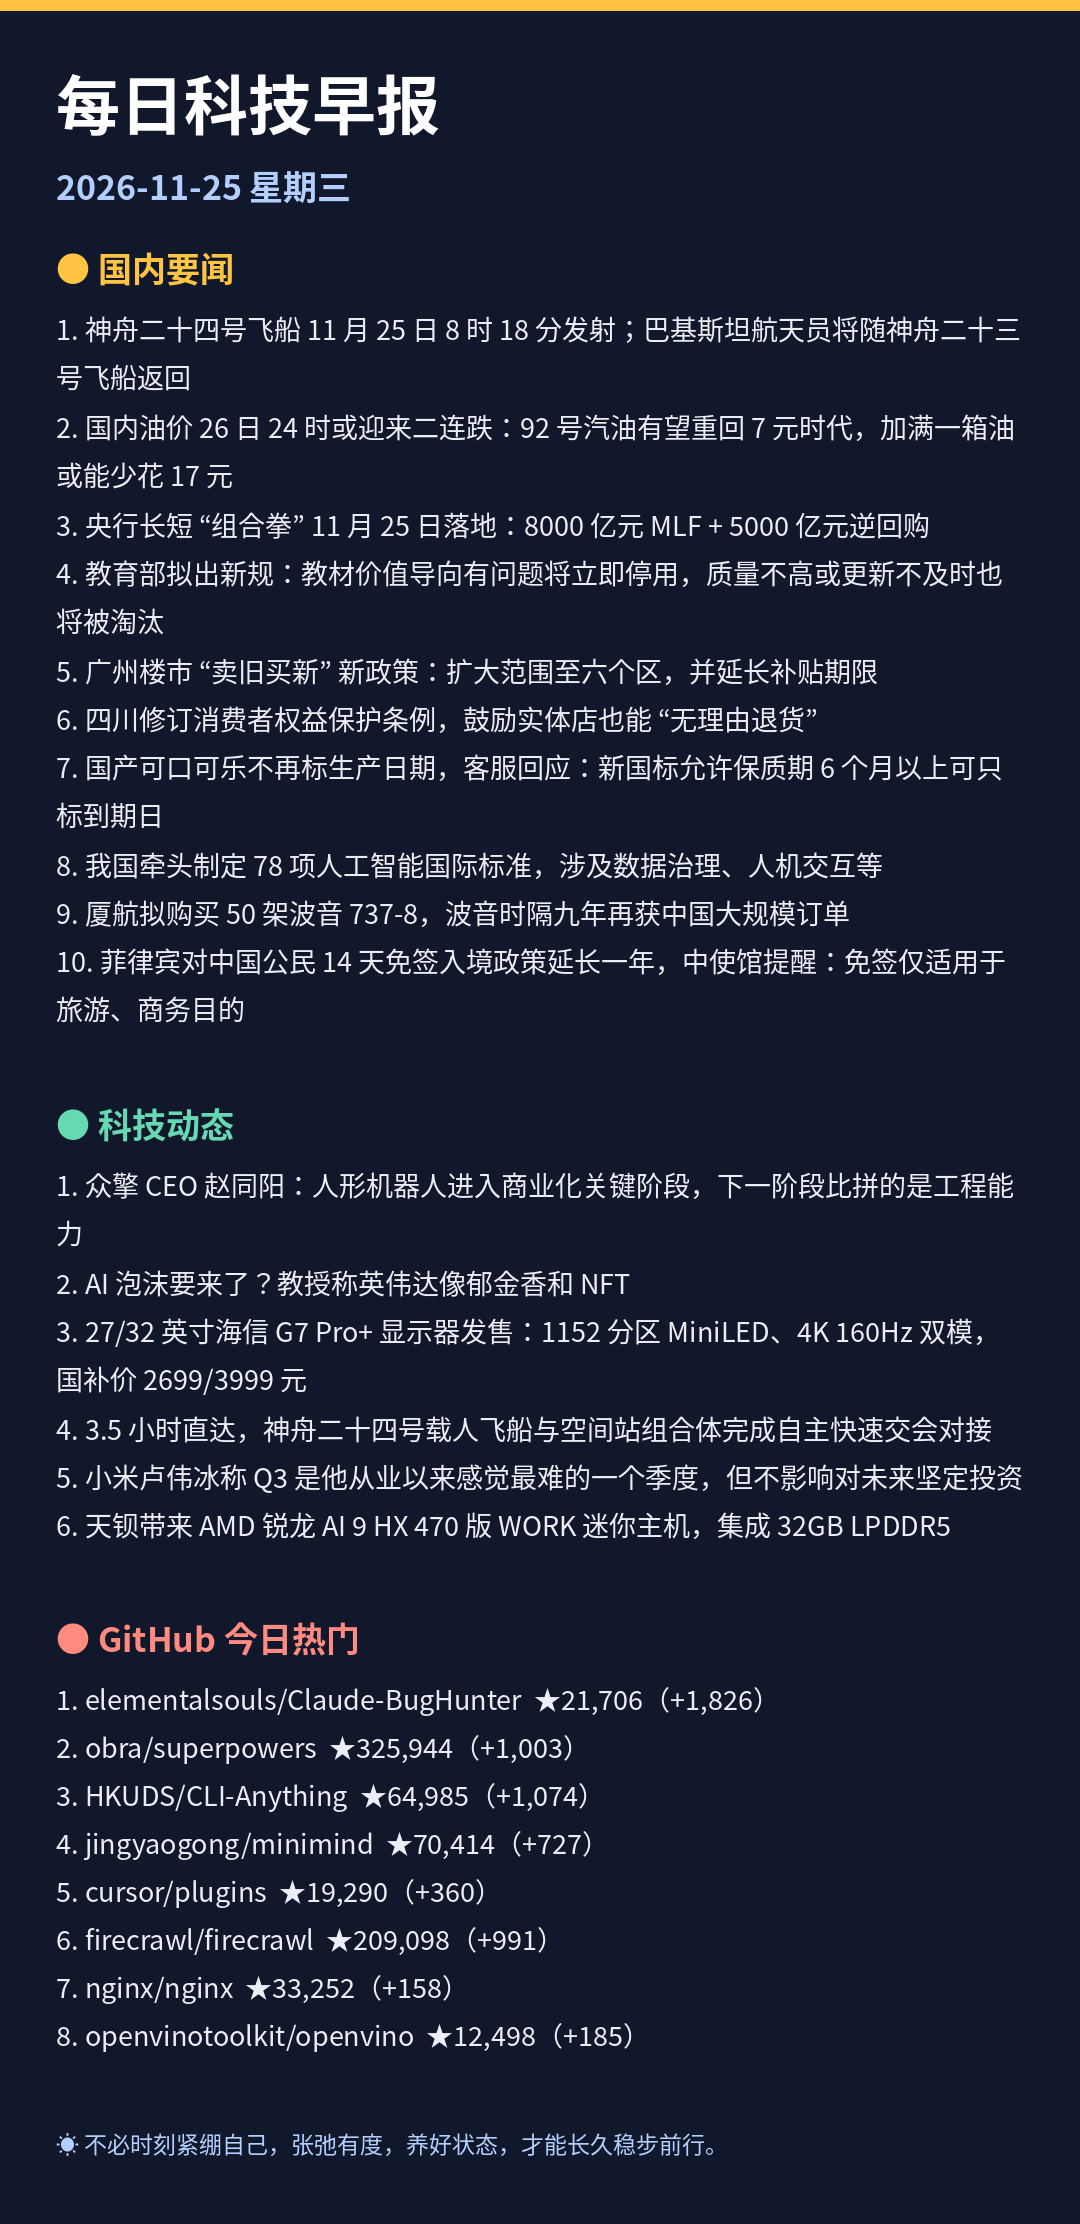
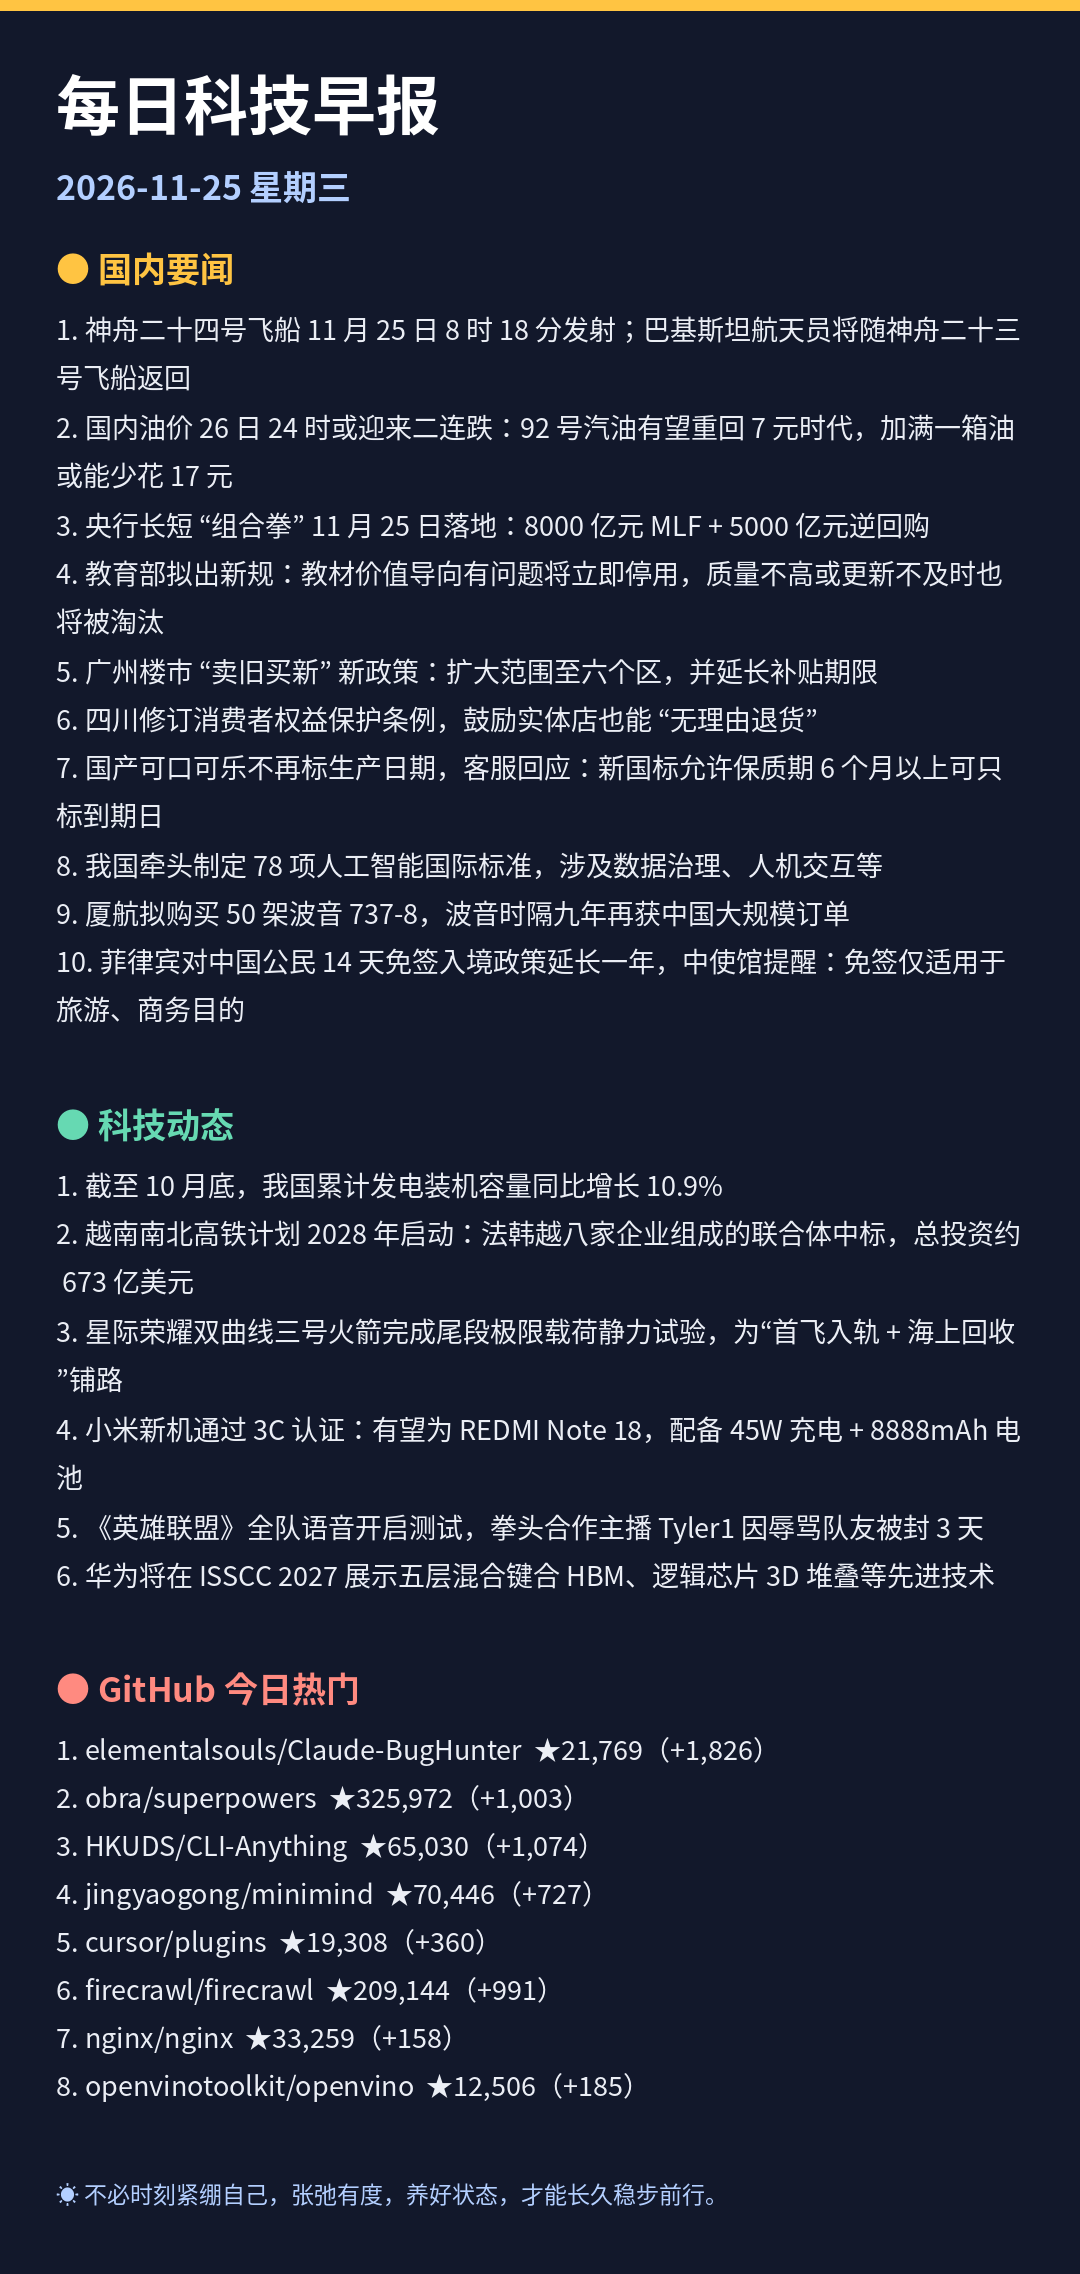
每日早报 2026-11-25

diff --git a/README.md b/README.md
@@ -30,34 +30,34 @@
 
 ## 💻 科技动态
 
-1. [众擎 CEO 赵同阳：人形机器人进入商业化关键阶段，下一阶段比拼的是工程能力](https://www.ithome.com/1/032/062.htm)
-2. [AI 泡沫要来了？教授称英伟达像郁金香和 NFT](https://www.ithome.com/1/032/058.htm)
-3. [27/32 英寸海信 G7 Pro+ 显示器发售：1152 分区 MiniLED、4K 160Hz 双模，国补价 2699/3999 元](https://www.ithome.com/1/032/040.htm)
-4. [3.5 小时直达，神舟二十四号载人飞船与空间站组合体完成自主快速交会对接](https://www.ithome.com/1/032/017.htm)
-5. [小米卢伟冰称 Q3 是他从业以来感觉最难的一个季度，但不影响对未来坚定投资](https://www.ithome.com/1/032/015.htm)
-6. [天钡带来 AMD 锐龙 AI 9 HX 470 版 WORK 迷你主机，集成 32GB LPDDR5](https://www.ithome.com/1/032/014.htm)
-7. [网络攻击、数据泄露频发，日本企业投保网络安全保险需求激增](https://www.ithome.com/1/032/010.htm)
-8. [卡普空宣布《原始袭变》2027 年 9 月 29 日停服，明年 3 月停售](https://www.ithome.com/1/031/990.htm)
+1. [截至 10 月底，我国累计发电装机容量同比增长 10.9%](https://www.ithome.com/1/032/096.htm)
+2. [越南南北高铁计划 2028 年启动：法韩越八家企业组成的联合体中标，总投资约 673 亿美元](https://www.ithome.com/1/032/095.htm)
+3. [星际荣耀双曲线三号火箭完成尾段极限载荷静力试验，为“首飞入轨 + 海上回收”铺路](https://www.ithome.com/1/032/093.htm)
+4. [小米新机通过 3C 认证：有望为 REDMI Note 18，配备 45W 充电 + 8888mAh 电池](https://www.ithome.com/1/032/092.htm)
+5. [《英雄联盟》全队语音开启测试，拳头合作主播 Tyler1 因辱骂队友被封 3 天](https://www.ithome.com/1/032/091.htm)
+6. [华为将在 ISSCC 2027 展示五层混合键合 HBM、逻辑芯片 3D 堆叠等先进技术](https://www.ithome.com/1/032/090.htm)
+7. [高盛：美国数据中心建设热潮有望持续至 2028 年，推高电力与天然气需求](https://www.ithome.com/1/032/089.htm)
+8. [《三体》电影版编剧陈宇：已集中写剧本两年多时间，自己和张艺谋压力都非常大](https://www.ithome.com/1/032/087.htm)
 
 <sub>来源：IT之家</sub>
 
 ## 🔥 GitHub 今日热门
 
-1. **[elementalsouls/Claude-BugHunter](https://github.com/elementalsouls/Claude-BugHunter)** — ⭐ 21,706（今日 +1,826） · Python
+1. **[elementalsouls/Claude-BugHunter](https://github.com/elementalsouls/Claude-BugHunter)** — ⭐ 21,769（今日 +1,826） · Python
    A Claude Code skill bundle for bug hunting and external red-team work - 84 skills, 15 slash commands, 681 disclosed-repo…
-2. **[obra/superpowers](https://github.com/obra/superpowers)** — ⭐ 325,944（今日 +1,003） · Shell
+2. **[obra/superpowers](https://github.com/obra/superpowers)** — ⭐ 325,972（今日 +1,003） · Shell
    An agentic skills framework software development methodology that works.
-3. **[HKUDS/CLI-Anything](https://github.com/HKUDS/CLI-Anything)** — ⭐ 64,985（今日 +1,074） · Python
+3. **[HKUDS/CLI-Anything](https://github.com/HKUDS/CLI-Anything)** — ⭐ 65,030（今日 +1,074） · Python
    "CLI-Anything: Making ALL Software Agent-Native" -- CLI-Hub: https://clianything.cc/
-4. **[jingyaogong/minimind](https://github.com/jingyaogong/minimind)** — ⭐ 70,414（今日 +727） · Python
+4. **[jingyaogong/minimind](https://github.com/jingyaogong/minimind)** — ⭐ 70,446（今日 +727） · Python
    🧠 两小时从 0 训出你的 64M 大模型。Train your own 64M LLM from scratch in 2 hours.
-5. **[cursor/plugins](https://github.com/cursor/plugins)** — ⭐ 19,290（今日 +360） · TypeScript
+5. **[cursor/plugins](https://github.com/cursor/plugins)** — ⭐ 19,308（今日 +360） · TypeScript
    Cursor plugin specification and official plugins
-6. **[firecrawl/firecrawl](https://github.com/firecrawl/firecrawl)** — ⭐ 209,098（今日 +991） · TypeScript
+6. **[firecrawl/firecrawl](https://github.com/firecrawl/firecrawl)** — ⭐ 209,144（今日 +991） · TypeScript
    Knowledge infrastructure to make your agents smarter. Search, scrape and access 550+ data providers through one API.
-7. **[nginx/nginx](https://github.com/nginx/nginx)** — ⭐ 33,252（今日 +158） · C
+7. **[nginx/nginx](https://github.com/nginx/nginx)** — ⭐ 33,259（今日 +158） · C
    The official NGINX Open Source repository.
-8. **[openvinotoolkit/openvino](https://github.com/openvinotoolkit/openvino)** — ⭐ 12,498（今日 +185） · C++
+8. **[openvinotoolkit/openvino](https://github.com/openvinotoolkit/openvino)** — ⭐ 12,506（今日 +185） · C++
    OpenVINO™ is an open source toolkit for optimizing and deploying AI inference
 
 <sub>来源：GitHub Trending</sub>

diff --git a/editions/2026-11-25.md b/editions/2026-11-25.md
@@ -22,34 +22,34 @@
 
 ## 💻 科技动态
 
-1. [众擎 CEO 赵同阳：人形机器人进入商业化关键阶段，下一阶段比拼的是工程能力](https://www.ithome.com/1/032/062.htm)
-2. [AI 泡沫要来了？教授称英伟达像郁金香和 NFT](https://www.ithome.com/1/032/058.htm)
-3. [27/32 英寸海信 G7 Pro+ 显示器发售：1152 分区 MiniLED、4K 160Hz 双模，国补价 2699/3999 元](https://www.ithome.com/1/032/040.htm)
-4. [3.5 小时直达，神舟二十四号载人飞船与空间站组合体完成自主快速交会对接](https://www.ithome.com/1/032/017.htm)
-5. [小米卢伟冰称 Q3 是他从业以来感觉最难的一个季度，但不影响对未来坚定投资](https://www.ithome.com/1/032/015.htm)
-6. [天钡带来 AMD 锐龙 AI 9 HX 470 版 WORK 迷你主机，集成 32GB LPDDR5](https://www.ithome.com/1/032/014.htm)
-7. [网络攻击、数据泄露频发，日本企业投保网络安全保险需求激增](https://www.ithome.com/1/032/010.htm)
-8. [卡普空宣布《原始袭变》2027 年 9 月 29 日停服，明年 3 月停售](https://www.ithome.com/1/031/990.htm)
+1. [截至 10 月底，我国累计发电装机容量同比增长 10.9%](https://www.ithome.com/1/032/096.htm)
+2. [越南南北高铁计划 2028 年启动：法韩越八家企业组成的联合体中标，总投资约 673 亿美元](https://www.ithome.com/1/032/095.htm)
+3. [星际荣耀双曲线三号火箭完成尾段极限载荷静力试验，为“首飞入轨 + 海上回收”铺路](https://www.ithome.com/1/032/093.htm)
+4. [小米新机通过 3C 认证：有望为 REDMI Note 18，配备 45W 充电 + 8888mAh 电池](https://www.ithome.com/1/032/092.htm)
+5. [《英雄联盟》全队语音开启测试，拳头合作主播 Tyler1 因辱骂队友被封 3 天](https://www.ithome.com/1/032/091.htm)
+6. [华为将在 ISSCC 2027 展示五层混合键合 HBM、逻辑芯片 3D 堆叠等先进技术](https://www.ithome.com/1/032/090.htm)
+7. [高盛：美国数据中心建设热潮有望持续至 2028 年，推高电力与天然气需求](https://www.ithome.com/1/032/089.htm)
+8. [《三体》电影版编剧陈宇：已集中写剧本两年多时间，自己和张艺谋压力都非常大](https://www.ithome.com/1/032/087.htm)
 
 <sub>来源：IT之家</sub>
 
 ## 🔥 GitHub 今日热门
 
-1. **[elementalsouls/Claude-BugHunter](https://github.com/elementalsouls/Claude-BugHunter)** — ⭐ 21,706（今日 +1,826） · Python
+1. **[elementalsouls/Claude-BugHunter](https://github.com/elementalsouls/Claude-BugHunter)** — ⭐ 21,769（今日 +1,826） · Python
    A Claude Code skill bundle for bug hunting and external red-team work - 84 skills, 15 slash commands, 681 disclosed-repo…
-2. **[obra/superpowers](https://github.com/obra/superpowers)** — ⭐ 325,944（今日 +1,003） · Shell
+2. **[obra/superpowers](https://github.com/obra/superpowers)** — ⭐ 325,972（今日 +1,003） · Shell
    An agentic skills framework software development methodology that works.
-3. **[HKUDS/CLI-Anything](https://github.com/HKUDS/CLI-Anything)** — ⭐ 64,985（今日 +1,074） · Python
+3. **[HKUDS/CLI-Anything](https://github.com/HKUDS/CLI-Anything)** — ⭐ 65,030（今日 +1,074） · Python
    "CLI-Anything: Making ALL Software Agent-Native" -- CLI-Hub: https://clianything.cc/
-4. **[jingyaogong/minimind](https://github.com/jingyaogong/minimind)** — ⭐ 70,414（今日 +727） · Python
+4. **[jingyaogong/minimind](https://github.com/jingyaogong/minimind)** — ⭐ 70,446（今日 +727） · Python
    🧠 两小时从 0 训出你的 64M 大模型。Train your own 64M LLM from scratch in 2 hours.
-5. **[cursor/plugins](https://github.com/cursor/plugins)** — ⭐ 19,290（今日 +360） · TypeScript
+5. **[cursor/plugins](https://github.com/cursor/plugins)** — ⭐ 19,308（今日 +360） · TypeScript
    Cursor plugin specification and official plugins
-6. **[firecrawl/firecrawl](https://github.com/firecrawl/firecrawl)** — ⭐ 209,098（今日 +991） · TypeScript
+6. **[firecrawl/firecrawl](https://github.com/firecrawl/firecrawl)** — ⭐ 209,144（今日 +991） · TypeScript
    Knowledge infrastructure to make your agents smarter. Search, scrape and access 550+ data providers through one API.
-7. **[nginx/nginx](https://github.com/nginx/nginx)** — ⭐ 33,252（今日 +158） · C
+7. **[nginx/nginx](https://github.com/nginx/nginx)** — ⭐ 33,259（今日 +158） · C
    The official NGINX Open Source repository.
-8. **[openvinotoolkit/openvino](https://github.com/openvinotoolkit/openvino)** — ⭐ 12,498（今日 +185） · C++
+8. **[openvinotoolkit/openvino](https://github.com/openvinotoolkit/openvino)** — ⭐ 12,506（今日 +185） · C++
    OpenVINO™ is an open source toolkit for optimizing and deploying AI inference
 
 <sub>来源：GitHub Trending</sub>
